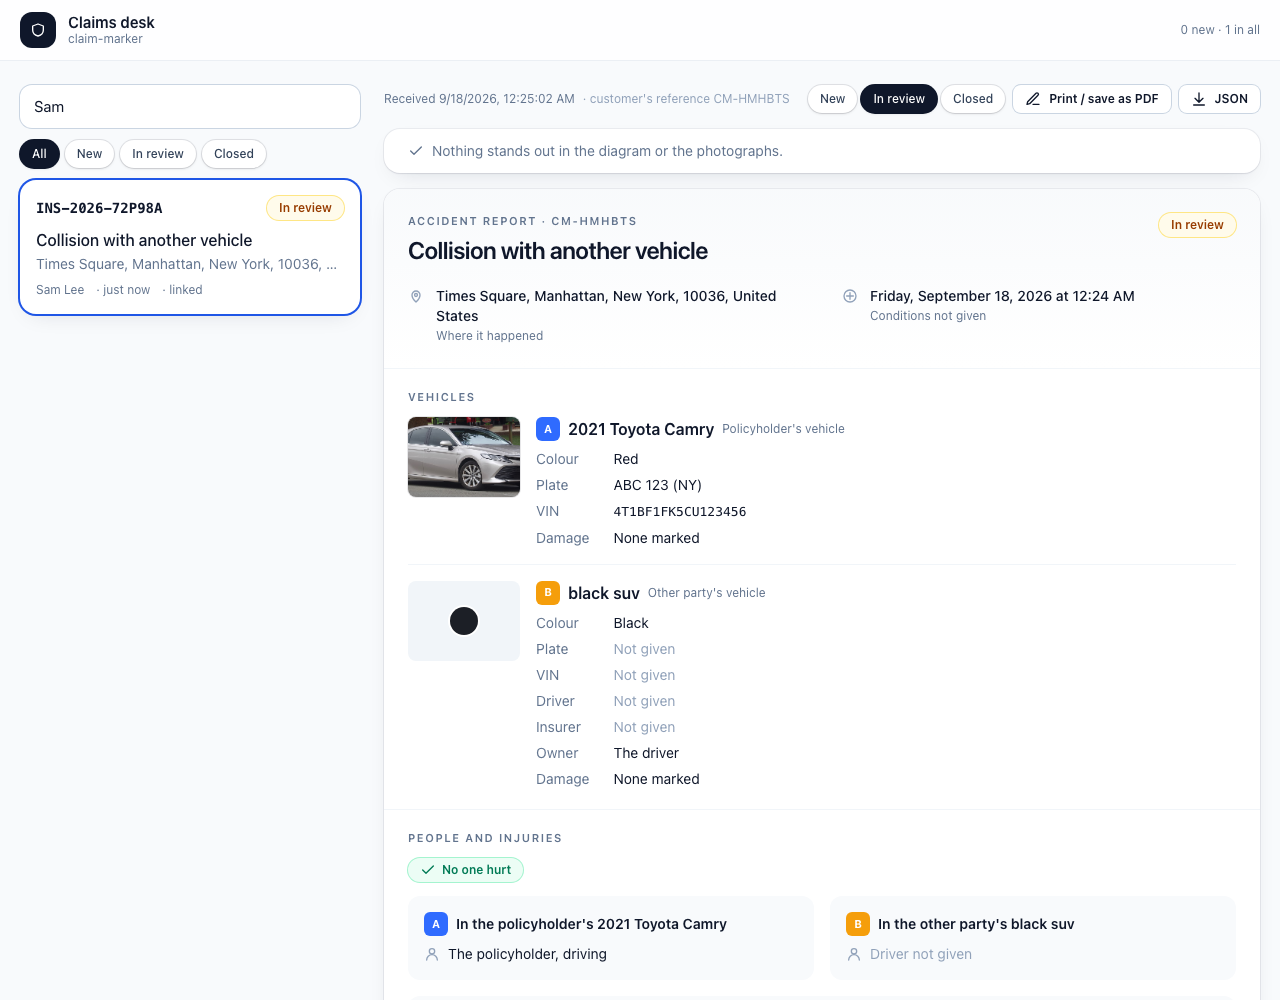
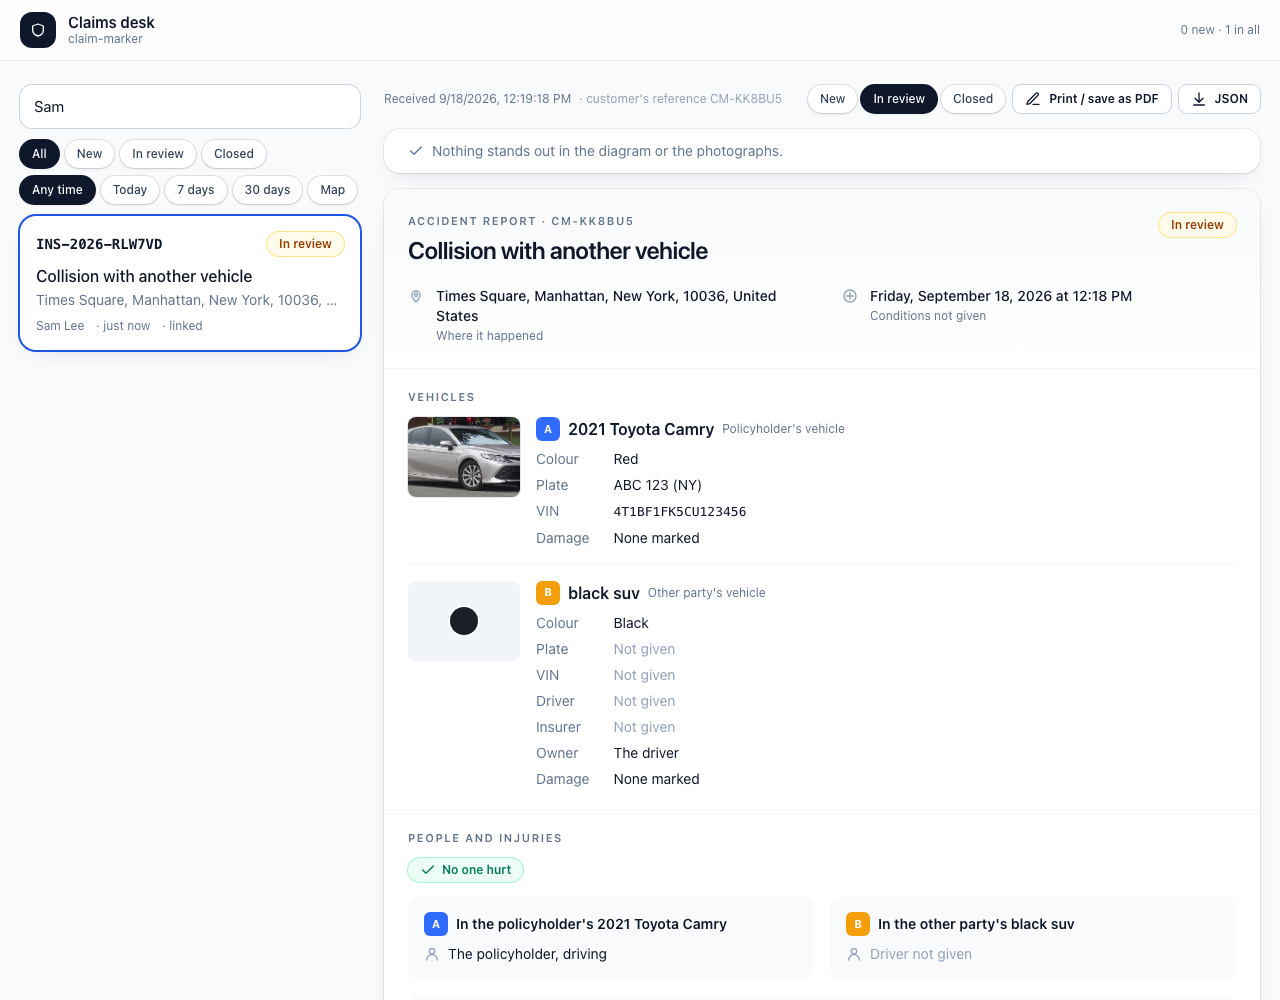
Integration smoke and docs for the desk's map
Three reports filed at three places in the three statuses: the map frames one
pin at a time in the middle and the colour under the middle is its status, the
heat layer changes the ground around the pin only while it is on, tapping the
pin opens that report, zooming out folds the reports into a cluster that splits
when it is tapped, and "only what's on the map" narrows the list to the view and
gives it back. docs/desk.png is the same screenshot the walk already took, with
the new chip rows in it.

diff --git a/docs/spec-app.md b/docs/spec-app.md
@@ -1076,6 +1076,50 @@ a real account well is a question for a real key and `scripts/assist-server.mjs`
 `fill_the_report` tool inlines the enums so it cannot misspell one and whose prompt says to
 extract only what was said.
 
+## The desk's map of everything (v9)
+
+An inbox is a list because that is the order reports arrive in, which is the one thing an
+adjuster already knows. What they do not know from a list is that four of this morning's reports
+are the same junction, or that a street has had eleven in a month. The desk's map answers that
+and nothing else: it is a second way of reading the list it sits above, not a second screen.
+
+**The place rides on the receipt, as one more thing the summary carries.** `summarise()` in the
+claim server adds `lng` and `lat` beside the address. `GET /claims` stays receipts only — the
+desk never loads nine documents to draw nine points — and a receipt filed before that line
+existed simply has no place and is not on the map. It is still in the list, like a report of a
+kind that was never diagrammed; the map is a view of the inbox, never a filter on it.
+
+**One clustered source, and the pin says what the row says.** `src/adjuster/DeskMap.tsx` is one
+MapLibre map on the same keyless street basemap the customer's page uses, with one GeoJSON
+source and `cluster: true`. A point is coloured by its status in the colours the inbox rows
+already wear — brand blue new, amber in review, slate closed — grows when someone was hurt or
+the car cannot be driven, and wears a red ring when the server has seen a photograph, a VIN or a
+plate on it before. Nothing on it is an opinion: every one of those is a fact already on the
+receipt, and the pin is the same sentence as the row, drawn where it happened.
+
+**The heat layer is the other question.** Volume over a region rather than one report at a
+time, weighted by `point_count` so a cluster stands for the reports inside it instead of
+thinning out as the map zooms away from them.
+
+**The clusters are DOM markers, not a symbol layer.** A cluster's count is text, and text on a
+MapLibre style needs a glyph server — another host in the served page's CSP, and another thing
+to be down, for a number a `div` can hold. This is the same answer the scenario map gives:
+interaction and labels are DOM, the canvas draws.
+
+**"Only what's on the map" is the one place the map narrows the list.** The map and the list
+show the same reports — the status chips, the date chips (today, 7 days, 30 days) and the search
+all apply to both — and only that toggle makes the list follow the view. The filtering is pure
+(`src/adjuster/pins.ts`: `pins`, `inRange`, `inView`), which is where the two things that would
+otherwise be found by hand are pinned down: "today" is the desk's day from midnight rather than
+the last twenty-four hours, and a view that crosses the antimeridian has a west greater than its
+east and still holds its points.
+
+**The map is told only when the points change.** The desk hands down a fresh array on every
+render, including the render its own `onBounds` causes; `DeskMap` compares the drawn collection
+before calling `setData` and refitting, or `fitBounds` would answer its own `moveend` for ever.
+That is the whole reason the bounds live in the desk's state and the data does not depend on
+them.
+
 ## Document
 
 `claim/1` wraps the v1 damage shape rather than redefining it:

diff --git a/CLAUDE.md b/CLAUDE.md
@@ -35,7 +35,9 @@ prefill, the offline outbox, the server, the rate limit, the served page's CSP, 
 signature, the desk, retention, the reuse signals (the same photograph and VIN under two
 customers), **both drivers** (the scene step's QR invite, a second browser as the other driver
 seeing nothing of the first report, their account filed once, both side by side on the desk),
-the replay unpacked as a video file, and the demo portal (a second, shorter walk against the
+the replay unpacked as a video file, the desk's map (three reports at three places as three
+pins in their status colours, a cluster when it zooms out, a pin tapped open, the list narrowed
+to the view), and the demo portal (a second, shorter walk against the
 **built** page the claim server serves). Run it for anything touching `src/config.ts`,
 `src/app/submit.ts`, `src/claim/prefill.ts`, `public/embed.js`, `server/` or `src/adjuster/`.
 
@@ -237,6 +239,18 @@ blame and suspicious appear in neither, which is also a test. `Photo.hash` is a 
 computed in the page (`ponytail:` — the server has no image decoder; a forged hash is the
 stated ceiling).
 
+**The desk's map is a second reading of the inbox, never a filter on it.** The place rides on
+the receipt (`summarise()` adds `lng`/`lat`; `GET /claims` stays receipts only), and a receipt
+without one — every report filed before that line — is simply not on the map while staying in
+the list. `src/adjuster/DeskMap.tsx` is one MapLibre instance (`import '../map/worker'` first,
+the same `STREETS` basemap) with one clustered GeoJSON source; the filtering is pure in
+`src/adjuster/pins.ts`. Four things there are easy to undo: the clusters are **DOM markers**,
+because a count is text and text needs a glyph server — one more host in the CSP for a number a
+div can hold; `DeskMap` compares the drawn collection before `setData`/`fitBounds`, or the fit
+answers its own `moveend` for ever through the desk's bounds state; the map and the list show
+the same reports and only "only what's on the map" makes the list follow the view; and "today"
+is the desk's day from midnight, not the last twenty-four hours.
+
 **Two accounts of one accident are linked by `incident.shared` and `reporter.party`.**
 The customer invites the other driver with a QR code (`src/app/Invite.tsx`, the one runtime
 dependency `qrcode-generator`); `POST /incidents` mints a 72-hour party token
@@ -414,7 +428,7 @@ era that still suits it. The app itself is Tailwind (`src/app.css`).
 ```
 src/app/          the seven steps, the shell, the shared ReportDocument, submit
 src/app/steps/damage/   the damage step's three parts: the camera, the suggestions, the marker
-src/adjuster/     the claims desk (adjuster.html), the insurer's side
+src/adjuster/     the claims desk (adjuster.html), the insurer's side: the inbox, the map of everything, the comparison
 src/claim/        the claim/1 document, the persisted store, prefill, the outbox, a photo's own EXIF
 src/config.ts     runtime configuration and the host-page channel
 public/sw.js      the offline shell; its precache list is patched in by vite.config.ts
